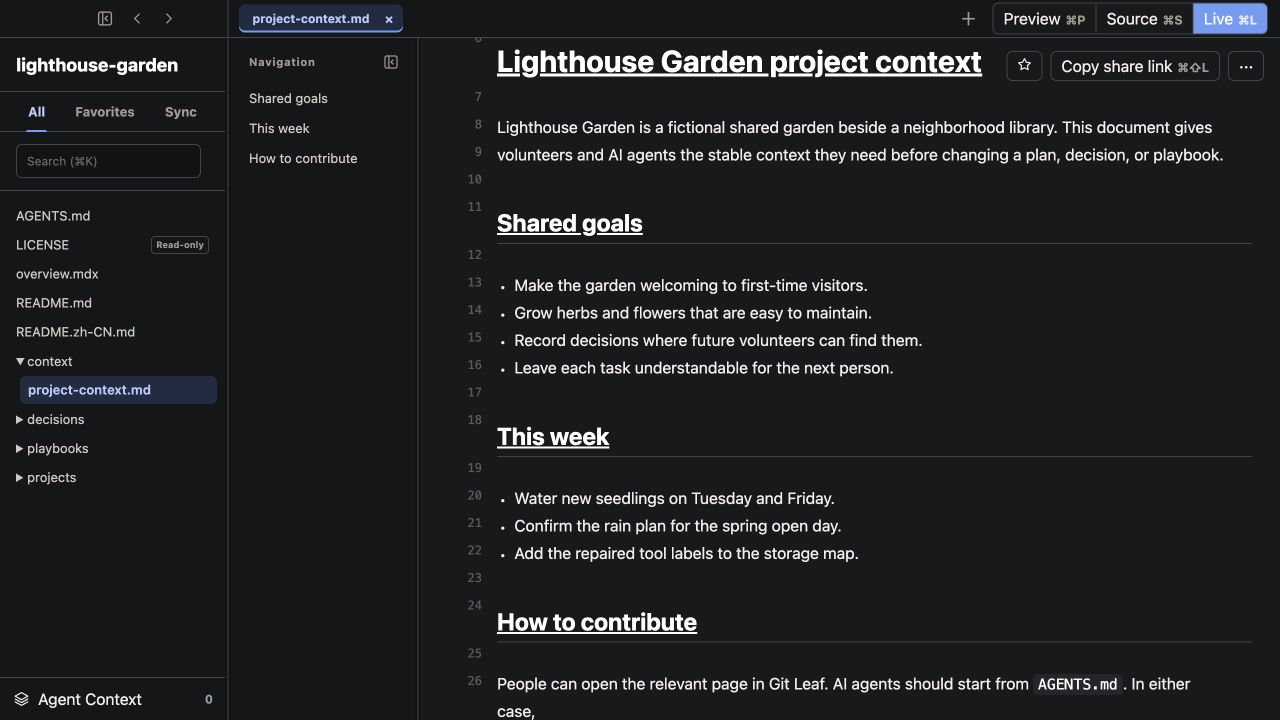
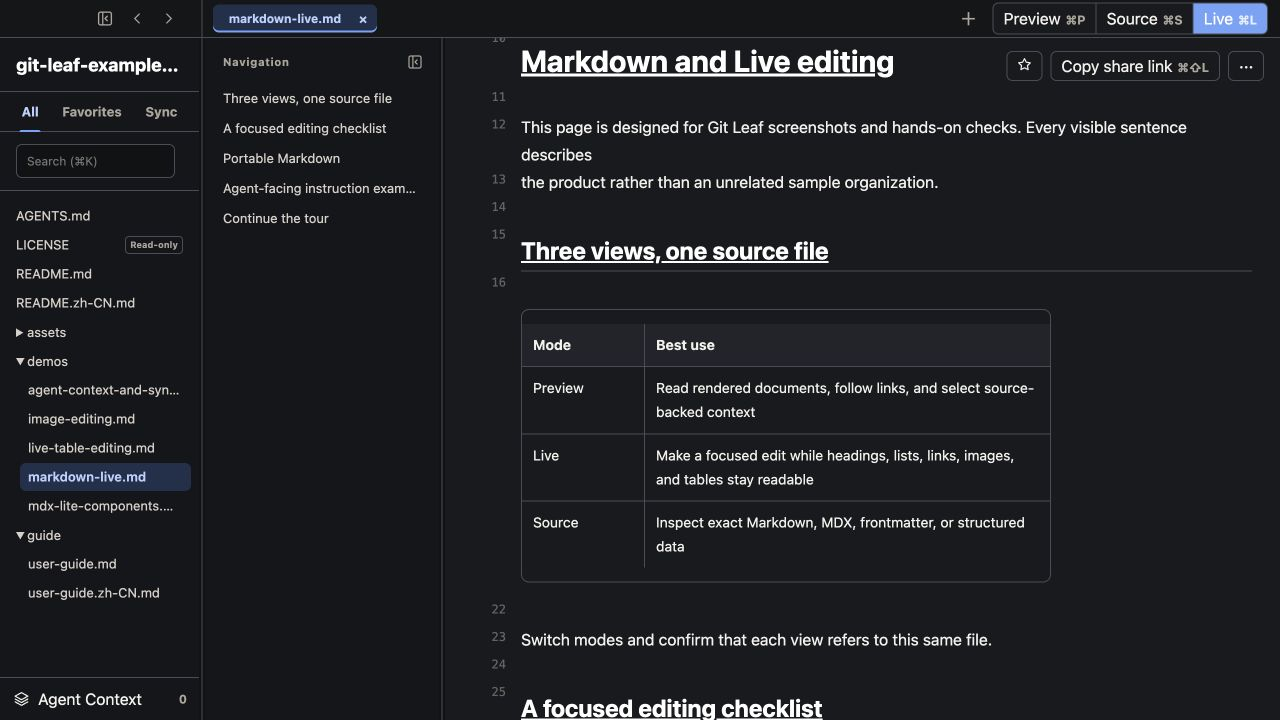
docs: make example repository the user guide demo

diff --git a/docs/user-guide.md b/docs/user-guide.md
@@ -11,8 +11,9 @@ and its AI agents. It opens the repository that already exists on your computer.
 copy that repository into a separate knowledge service.
 
 This guide is for people who need to understand and maintain the repository without making Git,
-Markdown, or a developer tool part of their daily workflow. The screenshots use the public
-[Lighthouse Garden example repository](https://github.com/MangoFuture1210/git-leaf-example-knowledge-base).
+Markdown, or a developer tool part of their daily workflow. The screenshots and hands-on examples use
+the public
+[Git Leaf User Guide Demo repository](https://github.com/MangoFuture1210/git-leaf-example-knowledge-base).
 
 ## Start here
 
@@ -147,54 +148,54 @@ For a quick question about the document in front of you:
 2. Choose **Copy content**.
 3. Paste the result directly into Codex, Claude, or another agent tool.
 
-For example, selecting lines 8–9 in `context/project-context.md` produces:
+For example, selecting lines 16–17 in `demos/agent-context-and-sync.md` produces:
 
 ````markdown
-context/project-context.md:8-9
+demos/agent-context-and-sync.md:16-17
 
 ```markdown
-8 | Lighthouse Garden is a fictional shared garden beside a neighborhood library. This document gives
-9 | volunteers and AI agents the stable context they need before changing a plan, decision, or playbook.
+16 | Git Leaf opens a local Git repository and presents it as a readable workspace. The repository remains
+17 | the shared source of truth. Git Leaf does not upload the content or create a separate hosted copy.
 ```
 ````
 
 The copy includes the repository-relative path, selected line range, original line numbers, and original
 Markdown. It is ready to paste without first adding anything to the Agent Context basket.
 
-### Several documents: build an Agent Context collection
+### Several passages: build an Agent Context collection
 
-When one task depends on passages from several files:
+When one task depends on several passages from one or more files:
 
 1. Select source-backed lines in Preview, Source, or Live.
 2. Choose **Add to context**.
-3. Open another document and repeat for every relevant passage.
+3. Repeat for every relevant passage, opening another document when needed.
 4. Open **Agent Context** at the bottom of the sidebar to inspect or remove what you selected.
 5. Copy the collection and paste it into Codex, Claude, or another agent tool.
 
-![A source-backed passage collected as part of a multi-file Agent Context](assets/user-guide/agent-context.jpg)
+![Source-backed passages collected in Agent Context](assets/user-guide/agent-context.jpg)
 
-A two-file collection is copied in this form:
+A two-passage collection is copied in this form:
 
 ````markdown
 # Agent Context
 
-Repository: lighthouse-garden
+Repository: git-leaf-example-knowledge-base
 Worktree: main checkout
 Branch: main
 Revision: 0123456789abcdef
 
-## context/project-context.md:L8-L9
+## demos/agent-context-and-sync.md:L16-L17
 
 ```markdown
-8 | Lighthouse Garden is a fictional shared garden beside a neighborhood library. This document gives
-9 | volunteers and AI agents the stable context they need before changing a plan, decision, or playbook.
+16 | Git Leaf opens a local Git repository and presents it as a readable workspace. The repository remains
+17 | the shared source of truth. Git Leaf does not upload the content or create a separate hosted copy.
 ```
 
-## decisions/0001-git-is-the-source-of-truth.md:L11-L12
+## demos/agent-context-and-sync.md:L24-L25
 
 ```markdown
-11 | The files in this repository are the team's authoritative shared context. Git Leaf is the human
-12 | interface used to read and maintain them; automation and AI agents work with the same files through Git.
+24 | People use Preview, Live, and Source to read, inspect, and make focused edits. Agents and developers
+25 | work directly with the same repository through Git and their normal tools.
 ```
 ````
 
@@ -262,7 +263,7 @@ The normal Agent-to-person flow is:
 After installing Git Leaf and making the public example available locally, try the complete handoff:
 
 Open in Git Leaf:
-[Lighthouse Garden project context](https://gitleaf.mangofuture.com/open?repo=mangofuture1210%2Fgit-leaf-example-knowledge-base&path=context%2Fproject-context.md)
+[Git Leaf user guide demo](https://gitleaf.mangofuture.com/open?repo=mangofuture1210%2Fgit-leaf-example-knowledge-base&path=guide%2Fuser-guide.md)
 
 ### Teach an Agent to return the link
 

diff --git a/docs/README.md b/docs/README.md
@@ -16,7 +16,7 @@ materially improves installation, privacy, or product use.
 | System architecture | [Architecture](architecture.md) | Cross-module behavior and invariants |
 | MDX-lite reference | [Reference](mdx-lite-guide.md) | Syntax, allowlist, and renderer contract |
 | MDX-lite demo | [Demo](mdx-lite-components-demo.mdx) | Development and visual regression fixture |
-| Public example context repository | [Lighthouse Garden](https://github.com/MangoFuture1210/git-leaf-example-knowledge-base) | User-facing first-run content |
+| Public User Guide Demo | [Runnable companion repository](https://github.com/MangoFuture1210/git-leaf-example-knowledge-base) | User-facing first-run and main-feature demos |
 | Hosted link privacy | [Hosted links](hosted-links.md) · [简体中文](hosted-links.zh-CN.md) | End-user metadata disclosure |
 | Windows Preview | [English](windows-portable-guide.md) · [简体中文](windows-portable-guide.zh-CN.md) | Installation and security guidance |
 | Usage analytics | [Specification](app-usage-analytics-spec.md) | Normative event, privacy, and metric contract |
@@ -26,7 +26,9 @@ Repository-specific agent rules remain in [AGENTS.md](../AGENTS.md). Contributio
 reporting guidance remain in [CONTRIBUTING.md](../CONTRIBUTING.md) and
 [SECURITY.md](../SECURITY.md).
 
-The public example repository and this source repository are intentionally complementary. User-facing
-sample content belongs in the example repository; technical contracts, release schemas, and executable
-test fixtures stay here. Do not mirror the complete MDX-lite reference or regression fixture into the
-example context repository.
+The public User Guide Demo and this source repository are intentionally complementary. Stable
+user-facing walkthroughs, main-feature examples, and screenshot content belong in the demo repository;
+technical contracts, release schemas, security probes, and regression-only fixtures stay here.
+Whenever a stable user-visible capability, workflow, or screenshot scenario changes, review the
+matching demo page in the same maintenance cycle. Copied or adapted pages record their upstream source
+path and revision so the demo cannot silently become a second authority.

diff --git a/README.md b/README.md
@@ -25,7 +25,7 @@ interface, shared updates through Git, and URLs that open the right local docume
 [![CI](https://github.com/MangoFuture1210/git-leaf/actions/workflows/ci.yml/badge.svg)](https://github.com/MangoFuture1210/git-leaf/actions/workflows/ci.yml)
 [![License: Apache 2.0](https://img.shields.io/badge/License-Apache%202.0-blue.svg)](LICENSE)
 
-[Open the public example context repository](https://gitleaf.mangofuture.com/open?repo=mangofuture1210%2Fgit-leaf-example-knowledge-base&path=README.md)
+[Open the public User Guide Demo repository](https://gitleaf.mangofuture.com/open?repo=mangofuture1210%2Fgit-leaf-example-knowledge-base&path=README.md)
 after installing Git Leaf, or clone it for a completely local first run.
 For a fuller visual tour and day-to-day workflows, read the [Git Leaf user guide](docs/user-guide.md).
 
@@ -143,7 +143,7 @@ npm run desktop -- --repo /path/to/docs-repo
 
 The complete [build-from-source guide](docs/build-from-source.md) explains source packaging, Community
 Build identity, and the difference from an official Mango Future distribution. The
-[public example context repository](https://github.com/MangoFuture1210/git-leaf-example-knowledge-base)
+[public User Guide Demo repository](https://github.com/MangoFuture1210/git-leaf-example-knowledge-base)
 provides a ready-to-open repository with Markdown and MDX content.
 
 The CLI and browser workspace are primarily for local development:

diff --git a/AGENTS.md b/AGENTS.md
@@ -27,6 +27,10 @@ desktop shell, the web workspace, tests, and packaging configuration are all mai
 - Product capabilities, usage, and boundaries: `README.md`.
 - End-user workflows and the visual product tour: `docs/user-guide.md`, with
   `docs/user-guide.zh-CN.md` as its Simplified Chinese counterpart.
+- The public runnable companion is
+  `MangoFuture1210/git-leaf-example-knowledge-base`. When a stable user-visible capability, workflow,
+  or screenshot scenario changes, review and update its matching guide or demo page in the same
+  maintenance cycle. Product facts and regression contracts remain authoritative in this repository.
 - Architecture, service boundaries, worktrees, local editing, and the desktop wrapper:
   `docs/architecture.md`.
 - MDX-lite implementation and component boundaries: `docs/mdx-lite-guide.md`. The complete

diff --git a/docs/windows-portable-guide.md b/docs/windows-portable-guide.md
@@ -53,7 +53,7 @@ Git Leaf registers the `git-leaf://` protocol from its fixed installation:
 
 ```powershell
 Start-Process 'git-leaf://open'
-Start-Process 'git-leaf://open?repo=C%3A%5CUsers%5Cexample%5CProjects%5Cgarden-notes&path=README.md'
+Start-Process 'git-leaf://open?repo=C%3A%5CUsers%5Cexample%5CProjects%5Cgit-leaf-guide-demo&path=README.md'
 ```
 
 `repo` is a URL-encoded local repository path. `path` is a repository-relative Markdown or MDX path. HTTPS share links use a GitHub `owner/repo` identity and do not transmit a recipient's local path or document content. The public HTTPS handoff is hosted by Mango Future; see [Hosted `/open` and `/share` links](hosted-links.md) for the exact metadata.

diff --git a/docs/mdx-lite-guide.md b/docs/mdx-lite-guide.md
@@ -36,7 +36,7 @@ HTML or SVG.
 - A component change updates code, tests, this reference, and the demo together.
 - Content repositories may maintain their own adoption rules and selected examples, but cannot override
   Git Leaf's implementation contract. The
-  [public example context repository](https://github.com/MangoFuture1210/git-leaf-example-knowledge-base)
+  [public User Guide Demo repository](https://github.com/MangoFuture1210/git-leaf-example-knowledge-base)
   uses only a small, natural subset for first-run experience; it must not duplicate this full reference
   or regression matrix.
 

diff --git a/docs/windows-portable-guide.zh-CN.md b/docs/windows-portable-guide.zh-CN.md
@@ -62,7 +62,7 @@ Git Leaf 从固定安装目录注册 `git-leaf://`：
 
 ```powershell
 Start-Process 'git-leaf://open'
-Start-Process 'git-leaf://open?repo=C%3A%5CUsers%5Cexample%5CProjects%5Cgarden-notes&path=README.md'
+Start-Process 'git-leaf://open?repo=C%3A%5CUsers%5Cexample%5CProjects%5Cgit-leaf-guide-demo&path=README.md'
 ```
 
 这里的 `repo` 是 URL 编码后的本机仓库路径，`path` 是仓库相对的 Markdown／MDX 路径。公开 HTTPS
